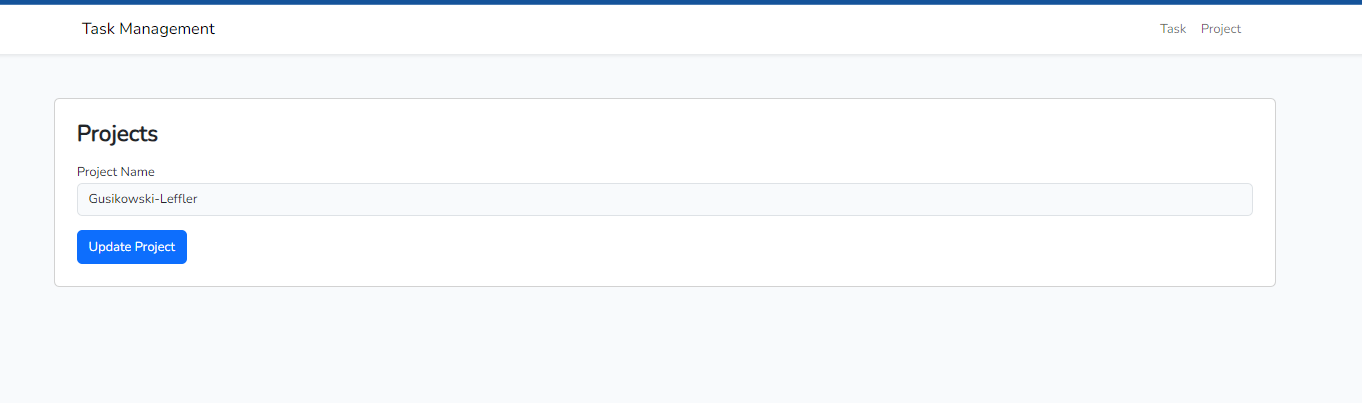
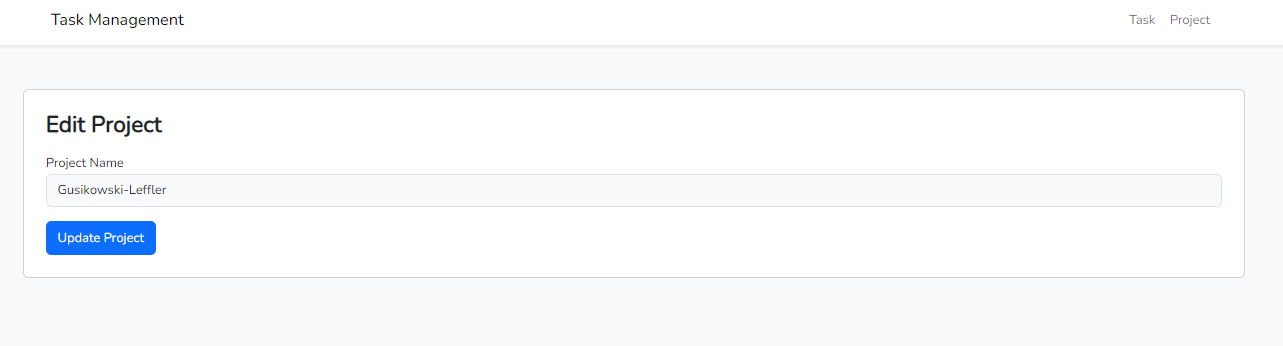
fix the title of edit project page

Changed region(s): [[0.0312, 0.3179, 0.1559, 0.7514], [0.0, 0.0, 1.0, 0.0867], [0.0312, 0.2312, 0.9665, 0.2601]]

diff --git a/resources/views/projects/edit.blade.php b/resources/views/projects/edit.blade.php
@@ -3,7 +3,7 @@
 @section('content')
     <div class="row">
         <div class="col-md-12">
-            <h3><strong>Projects</strong></h3>
+            <h3><strong>Edit Project</strong></h3>
             <form action="{{ route('projects.update', $project->id) }}" method="POST">
                 @csrf
                 @method('PUT')
